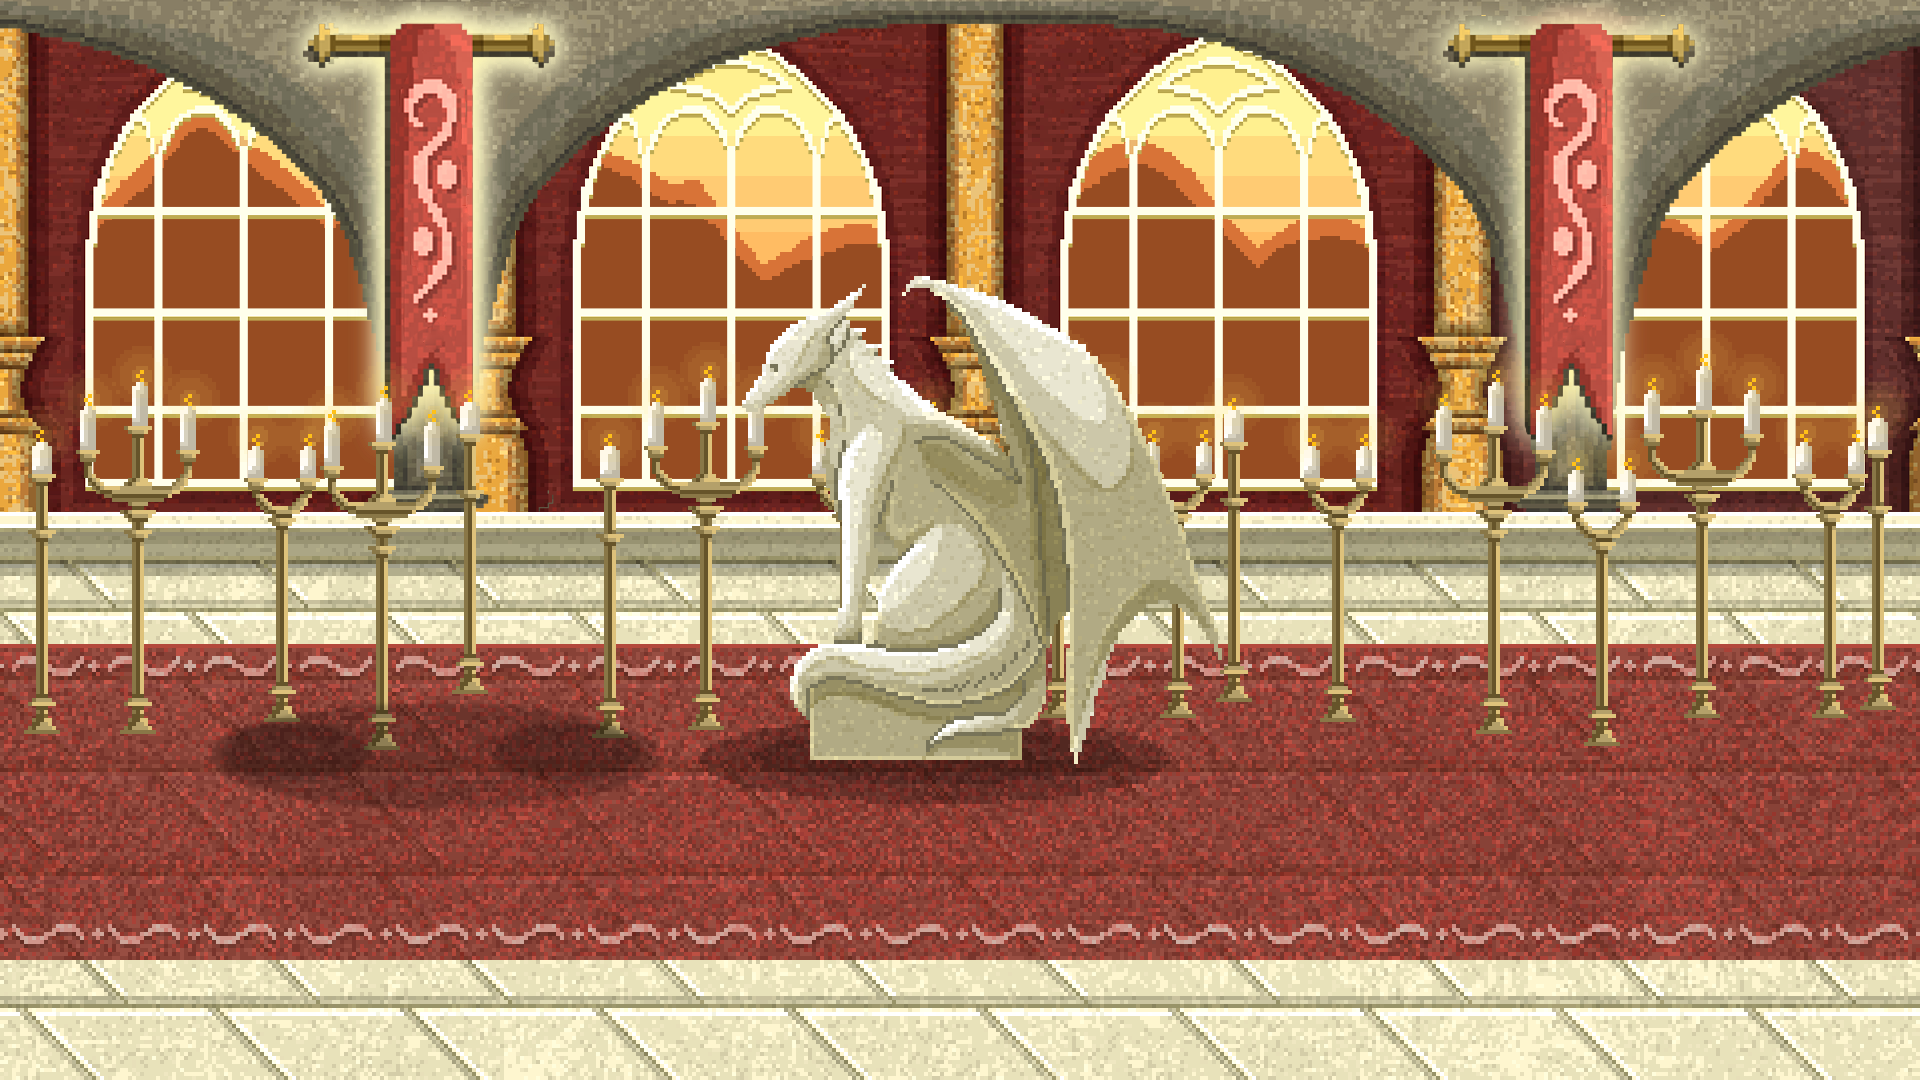
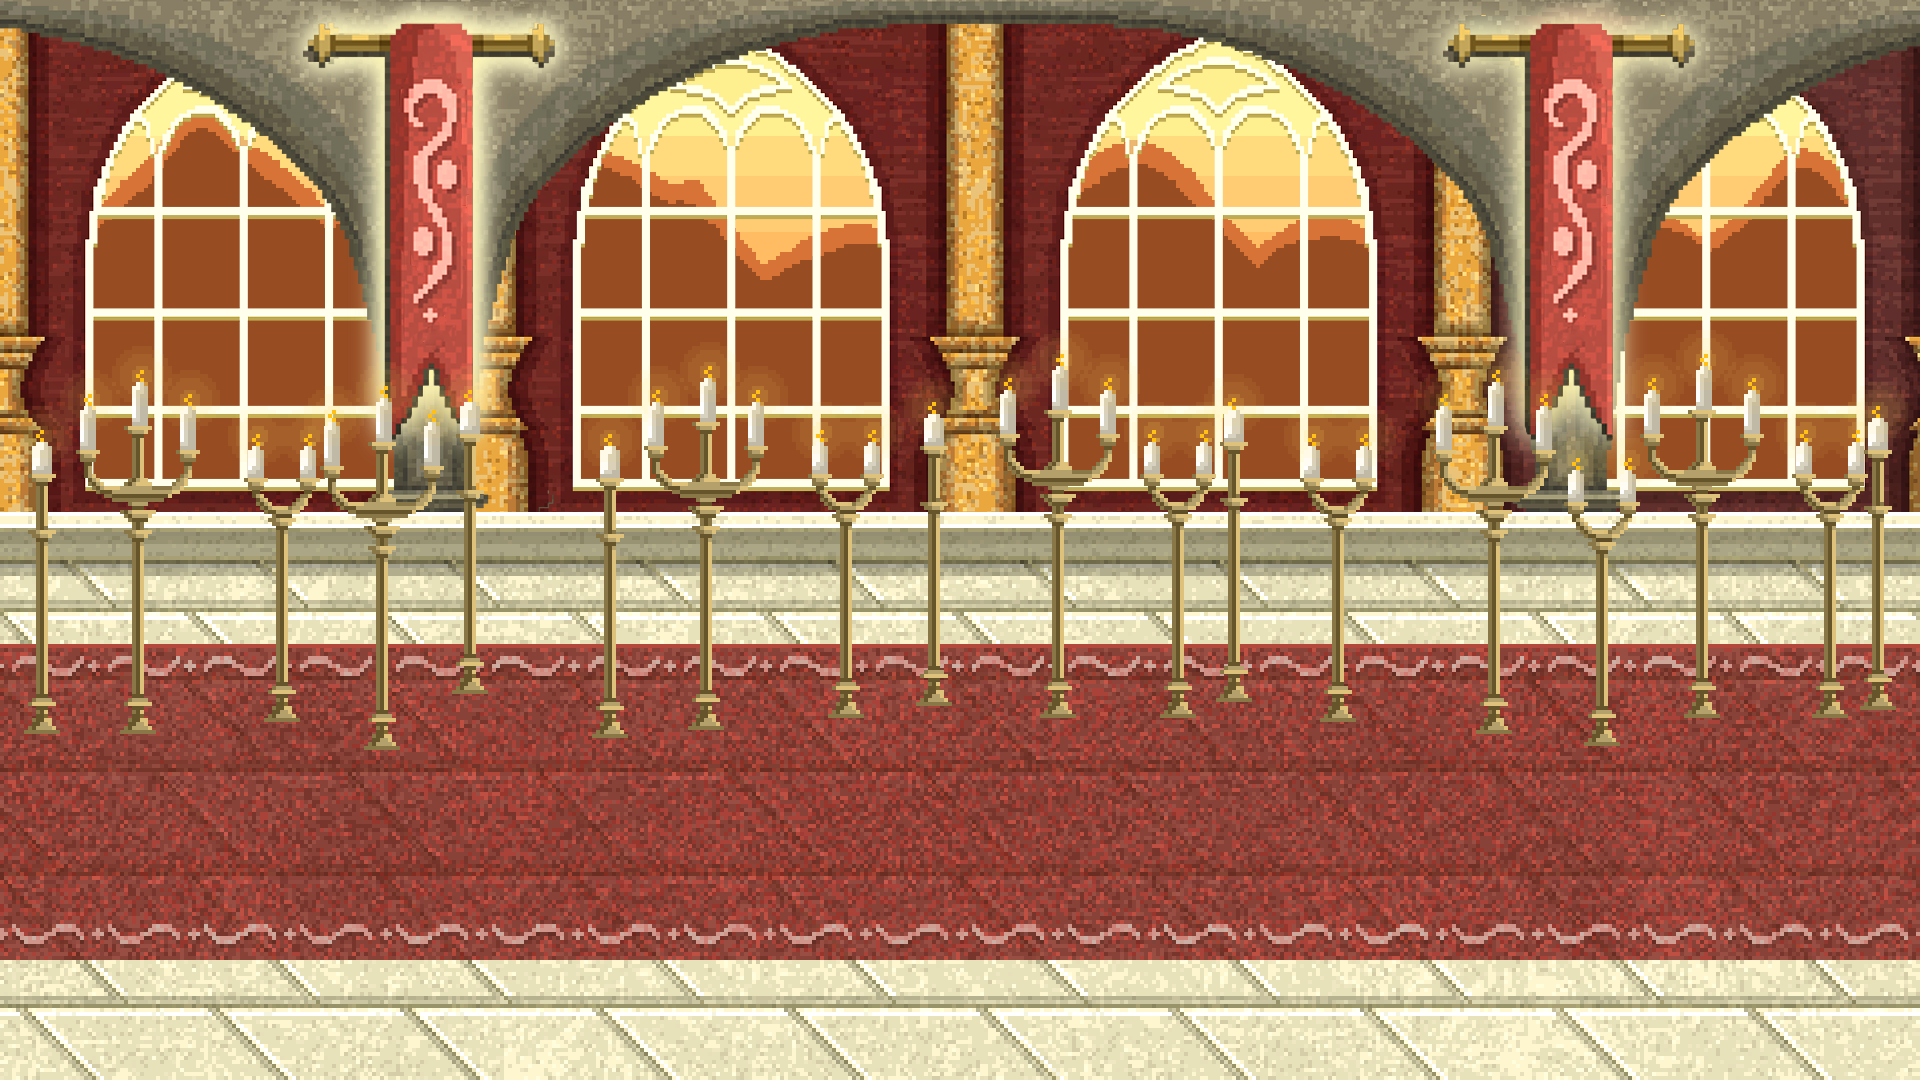
feat : Implement responsive lobby scene

Changed region(s): [[0.0938, 0.2444, 0.6562, 0.7639]]

diff --git a/client/src/scenes/Lobby.ts b/client/src/scenes/Lobby.ts
@@ -23,6 +23,12 @@ export default class Lobby extends Phaser.Scene {
   private sceneChange!: any = false;
   socket: Socket | undefined;
   howTo: Phaser.GameObjects.Image;
+  private sceneWidth!: number;
+  private sceneHeight!: number;
+  private bgImage: Phaser.GameObjects.Image;
+  private door: Phaser.GameObjects.Image;
+  private yellowPortal!: Phaser.Physics.Matter.Sprite;
+  private statue!: Phaser.GameObjects.Image;
   // const {nickName, characterModel} = useSelector((state:RootState)=> state.charactor);
 
   constructor() {
@@ -38,20 +44,7 @@ export default class Lobby extends Phaser.Scene {
   }
 
   create() {
-    /* Add Lobby background */
-    const bg = this.add.image(
-      this.cameras.main.width / 2,
-      this.cameras.main.height / 2,
-      'lobby'
-    );
-    const scale = Math.max(
-      this.cameras.main.width / bg.width,
-      this.cameras.main.height / bg.height
-    );
-    // bg.setDisplaySize(window.innerWidth, window.innerHeight);
-    bg.setScale(scale).setScrollFactor(0);
-
-    /* Add portal */
+    /* Add portal animation*/
     this.anims.create({
       key: 'green',
       frames: this.anims.generateFrameNames('green', {
@@ -74,50 +67,6 @@ export default class Lobby extends Phaser.Scene {
       repeat: -1,
     });
 
-    this.add
-      .sprite(this.scale.width / 1.25, this.scale.height * 0.5, 'yellow', 0)
-      .play('yellow');
-
-    this.howTo = this.add.image(
-      this.scale.width / 1.25,
-      this.scale.height * 0.5,
-      'howTo'
-    );
-
-    this.portal = this.matter.add
-      .sprite(this.scale.width / 4.5, this.scale.height * 0.5, 'green', 0)
-      .play('green');
-
-    /* Add door */
-    const door = this.add.image(
-      this.cameras.main.width / 2,
-      this.cameras.main.height / 2,
-      'door'
-    );
-    door.setScale(scale).setScrollFactor(0);
-
-    /* Guide to enter classroom */
-    this.buttonForList = this.add.image(this.portal.x, this.portal.y, 'enter');
-    // this.buttonForList = new Button({
-    //   scene: this,
-    //   x: this.portal.x,
-    //   y: this.portal.y,
-    //   text: 'E를 눌러\n입장하기',
-    //   style: {
-    //     //https://photonstorm.github.io/phaser3-docs/Phaser.Types.GameObjects.Text.html#.TextStyle
-    //     // backgroundColor: '#fff',
-    //     color: '#111',
-    //     fontSize: '32px',
-    //     fontStyle: 'strong',
-    //     resolution: 10,
-    //   },
-    // }).getBtn();
-
-    // this.buttonForList.setPadding(5, 5, 5, 5);
-
-    this.buttonForList.setVisible(false);
-    this.buttonForList.setScrollFactor(0);
-
     /* Set game world bounds */
     this.matter.world.setBounds(
       0,
@@ -125,21 +74,6 @@ export default class Lobby extends Phaser.Scene {
       this.scale.width * 1.5,
       this.scale.height
     );
-
-    /* Set portal overlap range */
-    const Bodies = this.matter.bodies;
-    this.portalZone = Bodies.rectangle(
-      this.portal.x,
-      this.portal.y,
-      this.portal.width,
-      this.portal.height,
-      {
-        isSensor: true,
-        label: 'portalSensor',
-      }
-    );
-
-    this.portal.setExistingBody(this.portalZone);
 
     /* Add my player */
     this.player = new Player({
@@ -176,6 +110,9 @@ export default class Lobby extends Phaser.Scene {
     });
 
     createCharacterAnims(this.playerTexture, this.player.anims);
+
+    this.drawLobby();
+    this.scale.on('resize', this.drawLobby, this);
   }
 
   update() {
@@ -229,4 +166,118 @@ export default class Lobby extends Phaser.Scene {
       }
     }
   }
+
+  drawLobby = () => {
+    this.sceneWidth = this.cameras.main.width;
+    this.sceneHeight = this.cameras.main.height;
+
+    this.addBg(this.sceneWidth, this.sceneHeight);
+    this.addStatue(this.sceneWidth, this.sceneHeight);
+    this.addPortals(this.sceneWidth, this.sceneHeight);
+    this.addDoor(this.sceneWidth, this.sceneHeight);
+    this.addDialog(this.sceneWidth, this.sceneHeight);
+
+    this.matter.world.setBounds(0, 0, this.sceneWidth * 1.5, this.sceneHeight);
+
+    this.player.y = this.sceneHeight * 0.7;
+  };
+
+  addBg = (sceneWidth: number, sceneHeight: number) => {
+    if (this.bgImage) {
+      this.bgImage.destroy();
+    }
+
+    /* Add background Image */
+    this.bgImage = this.add.sprite(sceneWidth / 2, sceneHeight / 2, 'lobby');
+
+    const imageScale = Math.max(
+      sceneWidth / this.bgImage.width,
+      sceneHeight / this.bgImage.height
+    );
+
+    this.bgImage.setScale(imageScale).setScrollFactor(0);
+
+    /* Add door */
+  };
+
+  addDoor = (sceneWidth: number, sceneHeight: number) => {
+    if (this.door) {
+      this.door.destroy();
+    }
+    this.door = this.add.sprite(sceneWidth / 5, sceneHeight / 1.85, 'door');
+
+    // const imageScale = Math.max(
+    //   sceneWidth / this.door.width,
+    //   sceneHeight / this.door.height
+    // );
+
+    // this.door.setScale(imageScale).setScrollFactor(0);
+  };
+
+  addStatue = (sceneWidth: number, sceneHeight: number) => {
+    if (this.statue) {
+      this.statue.destroy();
+    }
+
+    this.statue = this.add.sprite(
+      sceneWidth / 2,
+      sceneHeight / 1.9,
+      'lobby_statue'
+    );
+  };
+
+  addPortals = (sceneWidth: number, sceneHeight: number) => {
+    if (this.portal) {
+      this.portal.destroy();
+    }
+    if (this.yellowPortal) {
+      this.yellowPortal.destroy();
+    }
+
+    if (this.howTo) {
+      this.howTo.destroy();
+    }
+
+    this.portal = this.matter.add
+      .sprite(sceneWidth / 5, sceneHeight / 2, 'green', 0)
+      .play('green');
+
+    /* Set portal overlap range */
+    const Bodies = this.matter.bodies;
+    this.portalZone = Bodies.rectangle(
+      this.portal.x,
+      this.portal.y,
+      this.portal.width,
+      this.portal.height,
+      {
+        isSensor: true,
+        label: 'portalSensor',
+      }
+    );
+
+    this.portal.setExistingBody(this.portalZone);
+
+    this.yellowPortal = this.add
+      .sprite(sceneWidth / 1.25, sceneHeight * 0.5, 'yellow', 0)
+      .play('yellow');
+
+    this.howTo = this.add.image(sceneWidth / 1.25, sceneHeight / 2, 'howTo');
+
+    const imageScale = Math.max(
+      sceneWidth / this.portal.width,
+      sceneHeight / this.portal.height
+    );
+    // this.portal.setScale(imageScale);
+    // this.yellowPortal.setScale(imageScale);
+  };
+
+  addDialog = (sceneWidth: number, sceneHeight: number) => {
+    if (this.buttonForList) {
+      this.buttonForList.destroy();
+    }
+    /* Show guide dialog to enter classroom */
+    this.buttonForList = this.add.image(this.portal.x, this.portal.y, 'enter');
+    this.buttonForList.setVisible(false);
+    this.buttonForList.setScrollFactor(0);
+  };
 }

diff --git a/client/src/scenes/Background.ts b/client/src/scenes/Background.ts
@@ -55,6 +55,7 @@ export default class Background extends Phaser.Scene {
     this.load.image('lobby', 'assets/lobby/lobby_scene.png');
     this.load.image('door', 'assets/lobby/door.png');
     this.load.image('enter', 'assets/lobby/enter.png');
+    this.load.image('lobby_statue', 'assets/lobby/lobby_statue.png');
 
     this.load.atlas(
       'green',
